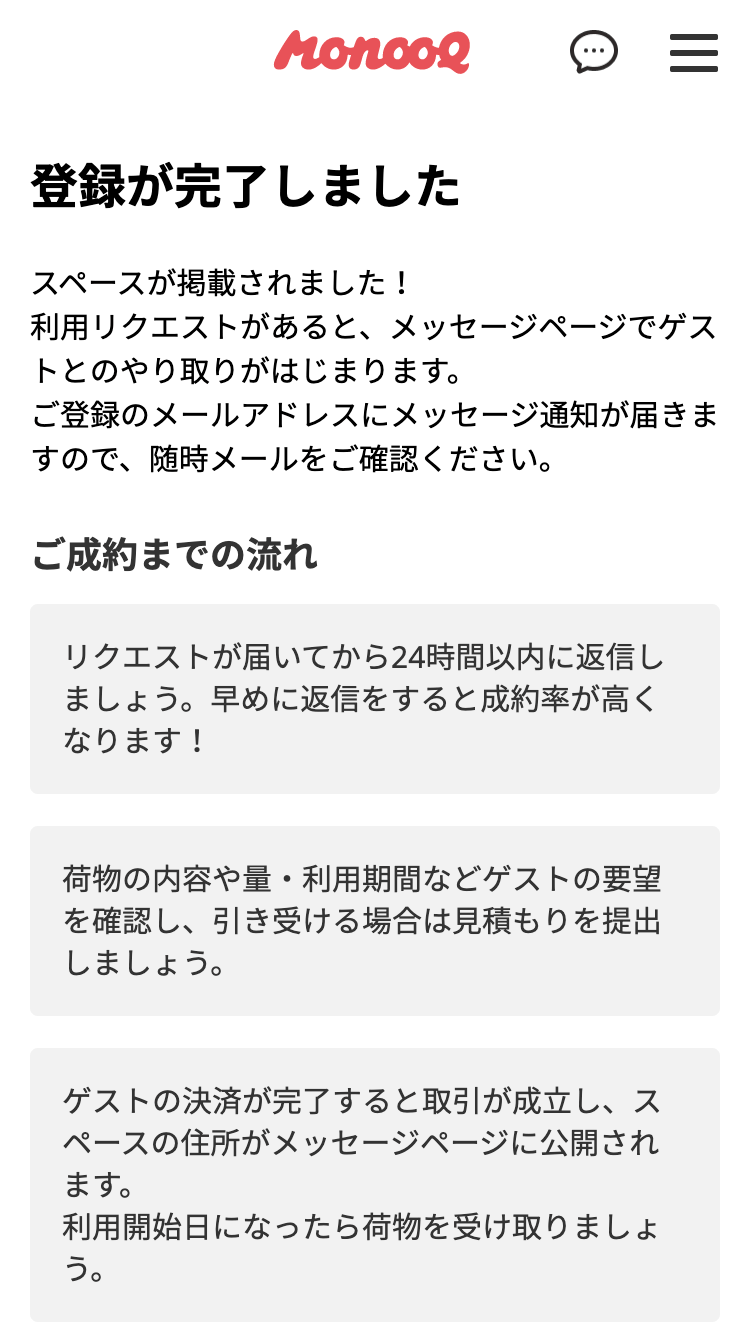
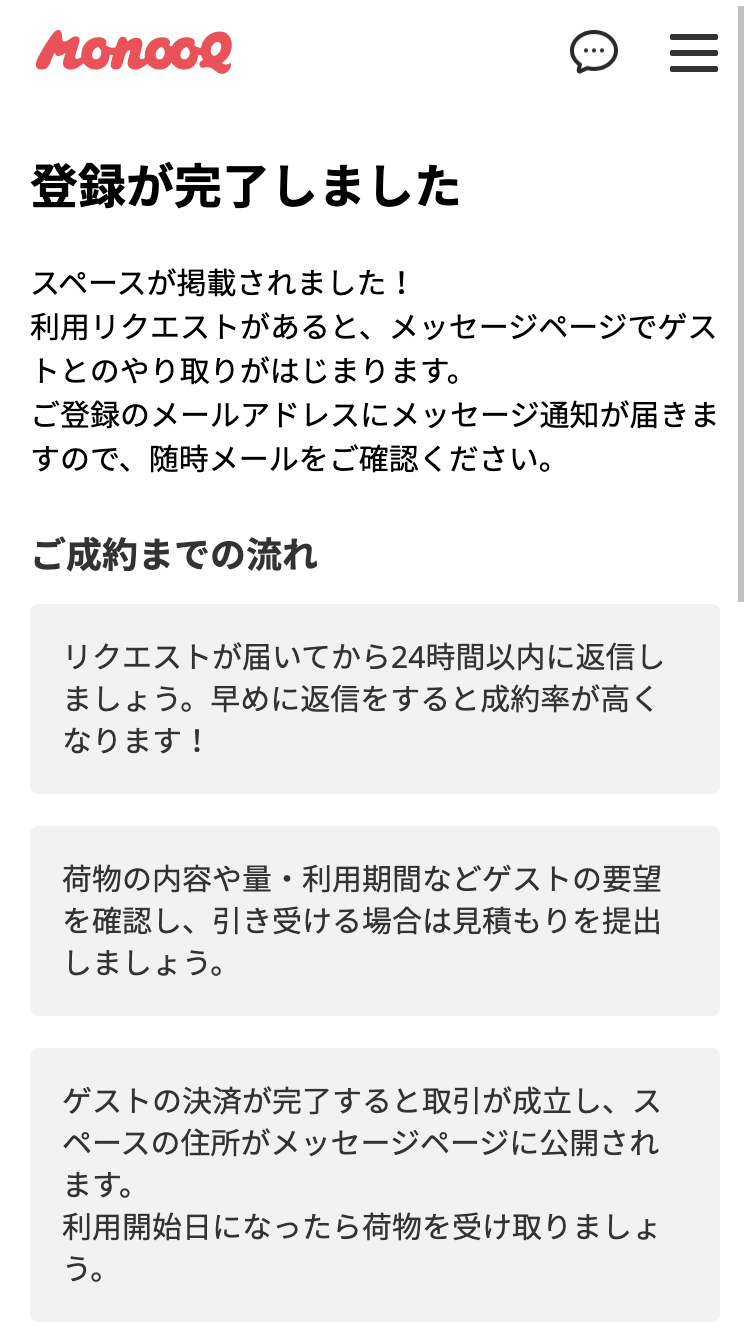
画像差し替え、文言微調整、共通ヘッダを左寄せに変更

Changed region(s): [[0.9813, 0.0, 1.0, 0.461], [0.368, 0.0, 0.644, 0.0615], [0.0307, 0.0, 0.3067, 0.0615]]

diff --git a/react-ui/src/components/LV3/Lp1Host/index.jsx b/react-ui/src/components/LV3/Lp1Host/index.jsx
@@ -546,7 +546,7 @@ export default () => (
               spaceImageAlt: 'img-example-1',
               spaceAddress: '千葉県市川市',
               spacePrice: '96,000',
-              spacePriceDtail: '40,000×3ヶ月-手数料',
+              spacePriceDtail: '40,000円×3ヶ月−手数料',
               examplePriceMonth: '40,000',
               exampleSpace: '6畳(部屋3畳 + 押入れ3畳)',
               exampleTerm: '3ヶ月',
@@ -559,7 +559,7 @@ export default () => (
               spaceImageAlt: 'img-example-2',
               spaceAddress: '東京都世田谷区',
               spacePrice: '32,000',
-              spacePriceDtail: '10,000×4ヶ月-手数料',
+              spacePriceDtail: '10,000円×4ヶ月−手数料',
               examplePriceMonth: '10,000',
               exampleSpace: '2畳',
               exampleTerm: '4ヶ月',
@@ -571,7 +571,7 @@ export default () => (
               spaceImageAlt: 'img-example-3',
               spaceAddress: '大阪府大阪市',
               spacePrice: '24,000',
-              spacePriceDtail: '3,000×10ヶ月-手数料',
+              spacePriceDtail: '3,000円×10ヶ月−手数料',
               examplePriceMonth: '3,000',
               exampleSpace: '1畳',
               exampleTerm: '10ヶ月',

diff --git a/react-ui/src/components/LV2/Lists/ExampleSpaceList/index.jsx b/react-ui/src/components/LV2/Lists/ExampleSpaceList/index.jsx
@@ -162,7 +162,7 @@ export default ({ list }) => (
               <Dd s_bg>
                 <DdSpan>{item.spaceAddress}</DdSpan>
                 <DdSpan price>{`${item.spacePrice}円`}</DdSpan>
-                <DdSpan>{`[内訳]${item.spacePriceDtail}`}</DdSpan>
+                <DdSpan>{`[内訳] ${item.spacePriceDtail}`}</DdSpan>
               </Dd>
             </Dl>
           </ItemSection>

diff --git a/react-ui/src/components/LV3/Header/index.jsx b/react-ui/src/components/LV3/Header/index.jsx
@@ -47,7 +47,6 @@ const Nav = styled.nav`
     height: ${HeightPhone}px;
     position: relative;
     display: flex;
-    justify-content: center;
   `};
 `;
 
